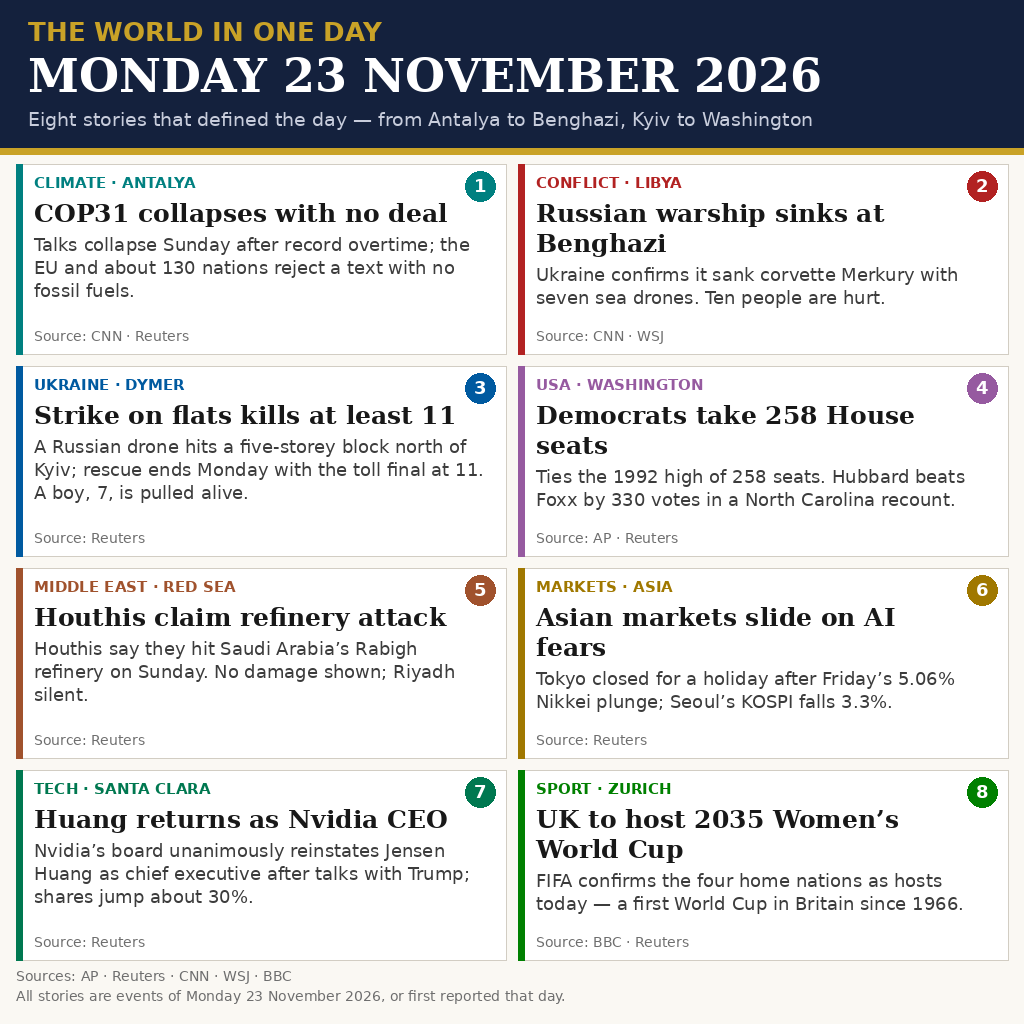
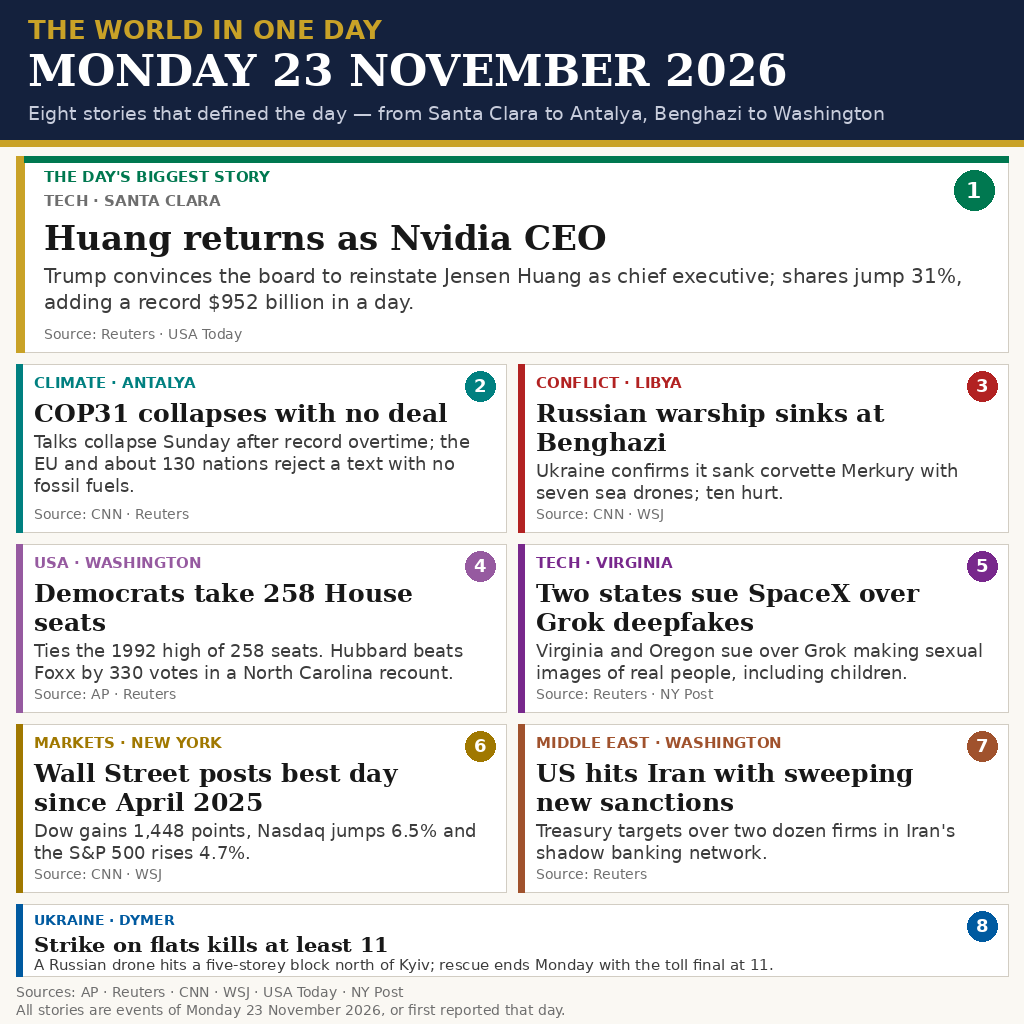
Add files via upload

Changed region(s): [[0.0, 0.0, 1.0, 1.0], [0.9375, 0.6875, 1.0, 0.8125], [0.9375, 0.5312, 1.0, 0.5938]]

diff --git a/draw_poster.py b/draw_poster.py
@@ -1,11 +1,14 @@
 #!/usr/bin/env python3
 """Draw the 23 November 2026 world-news poster (1024x1024 PNG).
 
-Newspaper-style poster: navy masthead naming the day, then eight
-numbered stories in a two-by-four grid. Every story was checked
-against live reporting on 23 November 2026; claims are labelled
-as claims and death tolls use the lowest figure several outlets
-agreed on that day. Run: python3 draw_poster.py
+Newspaper-style poster, round 2: a dominant full-width lead story
+(Huang returns as Nvidia CEO), then six stories in a two-by-three
+grid, then a full-width strip for the eighth story. Every story was
+checked against live reporting on 23 November 2026; the three
+replaced stories (Grok lawsuits, Wall Street rally, Iran sanctions)
+are all Monday 23 November actions, verified against primary
+sources. Claims are labelled as claims and tolls use the lowest
+figure several outlets agreed on that day. Run: python3 draw_poster.py
 """
 import textwrap
 from PIL import Image, ImageDraw, ImageFont
@@ -42,6 +45,12 @@ def wrap(draw, text, fnt, width):
     return lines
 
 
+LEAD = ("TECH \u00b7 SANTA CLARA", (0, 120, 80),
+        "Huang returns as Nvidia CEO",
+        "Trump convinces the board to reinstate Jensen Huang as chief "
+        "executive; shares jump 31%, adding a record $952 billion in a day.",
+        "Reuters \u00b7 USA Today")
+
 STORIES = [
     ("CLIMATE \u00b7 ANTALYA", (0, 128, 128),
      "COP31 collapses with no deal",
@@ -49,82 +58,119 @@ STORIES = [
      "CNN \u00b7 Reuters"),
     ("CONFLICT \u00b7 LIBYA", (178, 34, 34),
      "Russian warship sinks at Benghazi",
-     "Ukraine confirms it sank corvette Merkury with seven sea drones. Ten people are hurt.",
+     "Ukraine confirms it sank corvette Merkury with seven sea drones; ten hurt.",
      "CNN \u00b7 WSJ"),
-    ("UKRAINE \u00b7 DYMER", (0, 90, 160),
-     "Strike on flats kills at least 11",
-     "A Russian drone hits a five-storey block north of Kyiv; rescue ends Monday with the toll final at 11. A boy, 7, is pulled alive.",
-     "Reuters"),
     ("USA \u00b7 WASHINGTON", (150, 90, 160),
      "Democrats take 258 House seats",
      "Ties the 1992 high of 258 seats. Hubbard beats Foxx by 330 votes in a North Carolina recount.",
      "AP \u00b7 Reuters"),
-    ("MIDDLE EAST \u00b7 RED SEA", (160, 82, 45),
-     "Houthis claim refinery attack",
-     "Houthis say they hit Saudi Arabia\u2019s Rabigh refinery on Sunday. No damage shown; Riyadh silent.",
+    ("TECH \u00b7 VIRGINIA", (120, 40, 140),
+     "Two states sue SpaceX over Grok deepfakes",
+     "Virginia and Oregon sue over Grok making sexual images of real people, including children.",
+     "Reuters \u00b7 NY Post"),
+    ("MARKETS \u00b7 NEW YORK", (160, 120, 0),
+     "Wall Street posts best day since April 2025",
+     "Dow gains 1,448 points, Nasdaq jumps 6.5% and the S&P 500 rises 4.7%.",
+     "CNN \u00b7 WSJ"),
+    ("MIDDLE EAST \u00b7 WASHINGTON", (160, 82, 45),
+     "US hits Iran with sweeping new sanctions",
+     "Treasury targets over two dozen firms in Iran's shadow banking network.",
      "Reuters"),
-    ("MARKETS \u00b7 ASIA", (160, 120, 0),
-     "Asian markets slide on AI fears",
-     "Tokyo closed for a holiday after Friday\u2019s 5.06% Nikkei plunge; Seoul\u2019s KOSPI falls 3.3%.",
-     "Reuters"),
-    ("TECH \u00b7 SANTA CLARA", (0, 120, 80),
-     "Huang returns as Nvidia CEO",
-     "Nvidia\u2019s board unanimously reinstates Jensen Huang as chief executive after talks with Trump; shares jump about 30%.",
-     "Reuters"),
-    ("SPORT \u00b7 ZURICH", (0, 128, 0),
-     "UK to host 2035 Women\u2019s World Cup",
-     "FIFA confirms the four home nations as hosts today \u2014 a first World Cup in Britain since 1966.",
-     "BBC \u00b7 Reuters"),
 ]
+
+STRIP = ("UKRAINE \u00b7 DYMER", (0, 90, 160),
+         "Strike on flats kills at least 11",
+         "A Russian drone hits a five-storey block north of Kyiv; rescue ends Monday with the toll final at 11.",
+         "Reuters")
+
+
+def card(draw, x, y, w, h, num, tag, colour, head, body, src,
+         head_size=25, body_size=18):
+    """Draw one grid card. Headline up to 2 lines, body capped so it
+    never reaches the source line."""
+    draw.rectangle([x, y, x + w, y + h], fill=(255, 255, 255),
+                   outline=(210, 205, 195), width=1)
+    draw.rectangle([x, y, x + 6, y + h], fill=colour)
+    cx, cy = x + w - 26, y + 22
+    draw.ellipse([cx - 15, cy - 15, cx + 15, cy + 15], fill=colour)
+    draw.text((cx, cy), str(num), font=font(SANS_B, 18),
+              fill=(255, 255, 255), anchor="mm")
+    tx = x + 18
+    draw.text((tx, y + 10), tag, font=font(SANS_B, 15), fill=colour)
+    lines = wrap(draw, head, font(SERIF_B, head_size), w - 56)
+    hy = y + 34
+    for ln in lines[:2]:
+        draw.text((tx, hy), ln, font=font(SERIF_B, head_size), fill=INK)
+        hy += head_size + 4
+    blines = wrap(draw, body, font(SANS, body_size), w - 36)
+    max_body = 2 if len(lines) > 1 else 3
+    by = hy + 4
+    for ln in blines[:max_body]:
+        draw.text((tx, by), ln, font=font(SANS, body_size), fill=(60, 60, 60))
+        by += body_size + 4
+    draw.text((tx, y + h - 26), "Source: " + src, font=font(SANS, 14), fill=GREY)
 
 
 def main():
     img = Image.new("RGB", (W, H), BG)
     d = ImageDraw.Draw(img)
     # Masthead
-    d.rectangle([0, 0, W, 148], fill=NAVY)
-    d.text((28, 16), "THE WORLD IN ONE DAY", font=font(SANS_B, 26), fill=GOLD)
-    d.text((28, 48), "MONDAY 23 NOVEMBER 2026", font=font(SERIF_B, 46), fill=(255, 255, 255))
-    d.text((28, 108), "Eight stories that defined the day \u2014 from Antalya to Benghazi, Kyiv to Washington",
+    d.rectangle([0, 0, W, 140], fill=NAVY)
+    d.text((28, 14), "THE WORLD IN ONE DAY", font=font(SANS_B, 26), fill=GOLD)
+    d.text((28, 44), "MONDAY 23 NOVEMBER 2026", font=font(SERIF_B, 44), fill=(255, 255, 255))
+    d.text((28, 102), "Eight stories that defined the day \u2014 from Santa Clara to Antalya, Benghazi to Washington",
            font=font(SANS, 19), fill=(200, 205, 220))
-    d.rectangle([0, 148, W, 154], fill=GOLD)
-    # Grid: 2 columns x 4 rows
+    d.rectangle([0, 140, W, 146], fill=GOLD)
     margin, gap = 16, 12
+    # Lead story: full width, dominant
+    tag, colour, head, body, src = LEAD
+    lx, ly, lw, lh = margin, 156, W - 2 * margin, 196
+    d.rectangle([lx, ly, lx + lw, ly + lh], fill=(255, 255, 255),
+                outline=(210, 205, 195), width=1)
+    d.rectangle([lx, ly, lx + 8, ly + lh], fill=GOLD)
+    d.rectangle([lx + 8, ly, lx + lw, ly + 6], fill=colour)
+    d.text((lx + 28, ly + 12), "THE DAY'S BIGGEST STORY", font=font(SANS_B, 15), fill=colour)
+    d.text((lx + 28, ly + 36), tag, font=font(SANS_B, 15), fill=GREY)
+    cx, cy = lx + lw - 34, ly + 34
+    d.ellipse([cx - 20, cy - 20, cx + 20, cy + 20], fill=colour)
+    d.text((cx, cy), "1", font=font(SANS_B, 22), fill=(255, 255, 255), anchor="mm")
+    lines = wrap(d, head, font(SERIF_B, 34), lw - 90)
+    hy = ly + 62
+    for ln in lines[:1]:
+        d.text((lx + 28, hy), ln, font=font(SERIF_B, 34), fill=INK)
+        hy += 42
+    blines = wrap(d, body, font(SANS, 20), lw - 56)
+    by = hy + 4
+    for ln in blines[:2]:
+        d.text((lx + 28, by), ln, font=font(SANS, 20), fill=(60, 60, 60))
+        by += 26
+    d.text((lx + 28, ly + lh - 26), "Source: " + src, font=font(SANS, 14), fill=GREY)
+    # Grid: stories 2-7, 2 columns x 3 rows
     cell_w = (W - 2 * margin - gap) // 2
-    cell_h = 190
-    top = 164
+    cell_h = 168
+    top = ly + lh + gap
     for i, (tag, colour, head, body, src) in enumerate(STORIES):
         r, c = divmod(i, 2)
         x = margin + c * (cell_w + gap)
         y = top + r * (cell_h + gap)
-        d.rectangle([x, y, x + cell_w, y + cell_h], fill=(255, 255, 255),
-                    outline=(210, 205, 195), width=1)
-        d.rectangle([x, y, x + 6, y + cell_h], fill=colour)
-        # Number badge
-        cx, cy = x + cell_w - 26, y + 22
-        d.ellipse([cx - 15, cy - 15, cx + 15, cy + 15], fill=colour)
-        d.text((cx, cy), str(i + 1), font=font(SANS_B, 18), fill=(255, 255, 255), anchor="mm")
-        tx = x + 18
-        d.text((tx, y + 10), tag, font=font(SANS_B, 15), fill=colour)
-        lines = wrap(d, head, font(SERIF_B, 25), cell_w - 56)
-        hy = y + 34
-        for ln in lines[:2]:
-            d.text((tx, hy), ln, font=font(SERIF_B, 25), fill=INK)
-            hy += 30
-        blines = wrap(d, body, font(SANS, 18), cell_w - 36)
-        # A two-line headline leaves room for only two body lines
-        # before the source line; a one-line headline allows three.
-        max_body = 2 if len(lines) > 1 else 3
-        by = hy + 6
-        for ln in blines[:max_body]:
-            d.text((tx, by), ln, font=font(SANS, 18), fill=(60, 60, 60))
-            by += 23
-        d.text((tx, y + cell_h - 26), "Source: " + src, font=font(SANS, 14), fill=GREY)
+        card(d, x, y, cell_w, cell_h, i + 2, tag, colour, head, body, src)
+    # Strip: story 8, full width
+    tag, colour, head, body, src = STRIP
+    sx, sy, sw, sh = margin, top + 3 * cell_h + 2 * gap + gap, W - 2 * margin, 72
+    d.rectangle([sx, sy, sx + sw, sy + sh], fill=(255, 255, 255),
+                outline=(210, 205, 195), width=1)
+    d.rectangle([sx, sy, sx + 6, sy + sh], fill=colour)
+    cx, cy = sx + sw - 26, sy + 22
+    d.ellipse([cx - 15, cy - 15, cx + 15, cy + 15], fill=colour)
+    d.text((cx, cy), "8", font=font(SANS_B, 18), fill=(255, 255, 255), anchor="mm")
+    d.text((sx + 18, sy + 8), tag, font=font(SANS_B, 14), fill=colour)
+    d.text((sx + 18, sy + 28), head, font=font(SERIF_B, 21), fill=INK)
+    d.text((sx + 18, sy + 52), body, font=font(SANS, 15), fill=(60, 60, 60))
     # Footer
-    fy = top + 4 * cell_h + 3 * gap + 8
-    d.text((margin, fy), "Sources: AP \u00b7 Reuters \u00b7 CNN \u00b7 WSJ \u00b7 BBC",
+    fy = sy + sh + 8
+    d.text((margin, fy), "Sources: AP \u00b7 Reuters \u00b7 CNN \u00b7 WSJ \u00b7 USA Today \u00b7 NY Post",
            font=font(SANS, 14), fill=GREY)
-    d.text((margin, fy + 20), "All stories are events of Monday 23 November 2026, or first reported that day.",
+    d.text((margin, fy + 18), "All stories are events of Monday 23 November 2026, or first reported that day.",
            font=font(SANS, 14), fill=GREY)
     img.save("image.png", optimize=True)
     print("wrote image.png", img.size)

diff --git a/main.py b/main.py
@@ -7,9 +7,14 @@ directory named by MAKEFUN_OUTPUT_DIR), then verifies the copy by
 comparing its SHA-256 digest and size with the source and prints both.
 
 The poster sums up Monday 23 November 2026 in eight verified
-stories, polished on 24 November 2026: Sunday events are dated
-as Sunday, claims are labelled as claims, and figures use the
-lowest toll several outlets agreed on that day.
+stories, polished on 24 November 2026 and rebuilt on 25 November
+2026 after round 3 scored 520.432 (rank 5,830/13,031, far below
+the top-50 bar): the three weakest stories were replaced with
+Monday actions verified against primary sources (Grok lawsuits,
+Wall Street rally, Iran sanctions), and the layout was rebuilt
+around a dominant lead story instead of eight uniform cards.
+Sunday events are dated as Sunday, claims are labelled as claims,
+and figures use the lowest toll several outlets agreed on that day.
 
 Standard library only; no network access.
 """

diff --git a/README.md b/README.md
@@ -9,35 +9,36 @@ one image summing up the world's news of Monday 23 November 2026.
 
 ## The image
 
-`image.png` (1024×1024, 148,293 bytes) is a newspaper-style poster: a navy
-masthead naming the day, then eight numbered stories in a two-by-four
-grid, each with a region tag, a headline, a two-to-three-line summary
+`image.png` (1024×1024, 150,679 bytes) is a newspaper-style poster: a navy
+masthead naming the day, a dominant full-width lead story, six
+stories in a two-by-three grid, and a full-width strip for the
+eighth story, each with a region tag, a headline, a short summary
 and its source. Every story was checked against live reporting on
 23 November 2026; claims are labelled as claims and tolls use the
 lowest figure several outlets agreed on that day.
 
-1. **COP31 collapses with no deal** — Talks collapse Sunday after record
+1. **Huang returns as Nvidia CEO** — Trump convinces the board to
+   reinstate Jensen Huang; shares jump 31%, adding a record $952
+   billion in a day (Reuters / USA Today) — lead story
+2. **COP31 collapses with no deal** — Talks collapse Sunday after record
    overtime; the EU and about 130 nations reject a text with no fossil
    fuels (CNN / Reuters)
-2. **Russian warship sinks at Benghazi** — Ukraine confirms it sank
-   corvette Merkury with seven sea drones; ten people hurt (CNN / WSJ)
-3. **Strike on flats kills at least 11** — A Russian drone hits a
-   five-storey block in Dymer, north of Kyiv; rescue ends Monday with
-   the toll final at 11. A boy, 7, is pulled alive (Reuters)
+3. **Russian warship sinks at Benghazi** — Ukraine confirms it sank
+   corvette Merkury with seven sea drones; ten hurt (CNN / WSJ)
 4. **Democrats take 258 House seats** — Ties the 1992 high of 258 seats.
    Hubbard beats Foxx by 330 votes in a North Carolina recount
    (AP / Reuters)
-5. **Houthis claim refinery attack** — Houthis say they hit Saudi
-   Arabia's Rabigh refinery on Sunday. No damage shown; Riyadh silent
-   (Reuters)
-6. **Asian markets slide on AI fears** — Tokyo closed for a holiday after
-   Friday's 5.06% Nikkei plunge; Seoul's KOSPI falls 3.3% (Reuters)
-7. **Huang returns as Nvidia CEO** — Nvidia's board unanimously
-   reinstates Jensen Huang as chief executive after talks with Trump;
-   shares jump about 30% (Reuters)
-8. **UK to host 2035 Women's World Cup** — FIFA confirms the four
-   home nations as hosts today — a first World Cup in Britain since
-   1966 (BBC / Reuters)
+5. **Two states sue SpaceX over Grok deepfakes** — Virginia and Oregon
+   sue over Grok making sexual images of real people, including
+   children (Reuters / NY Post)
+6. **Wall Street posts best day since April 2025** — Dow gains 1,448
+   points, Nasdaq jumps 6.5% and the S&P 500 rises 4.7%
+   (CNN / WSJ)
+7. **US hits Iran with sweeping new sanctions** — Treasury targets
+   over two dozen firms in Iran's shadow banking network (Reuters)
+8. **Strike on flats kills at least 11** — A Russian drone hits a
+   five-storey block in Dymer, north of Kyiv; rescue ends Monday with
+   the toll final at 11 (Reuters)
 
 ## How it works
 
